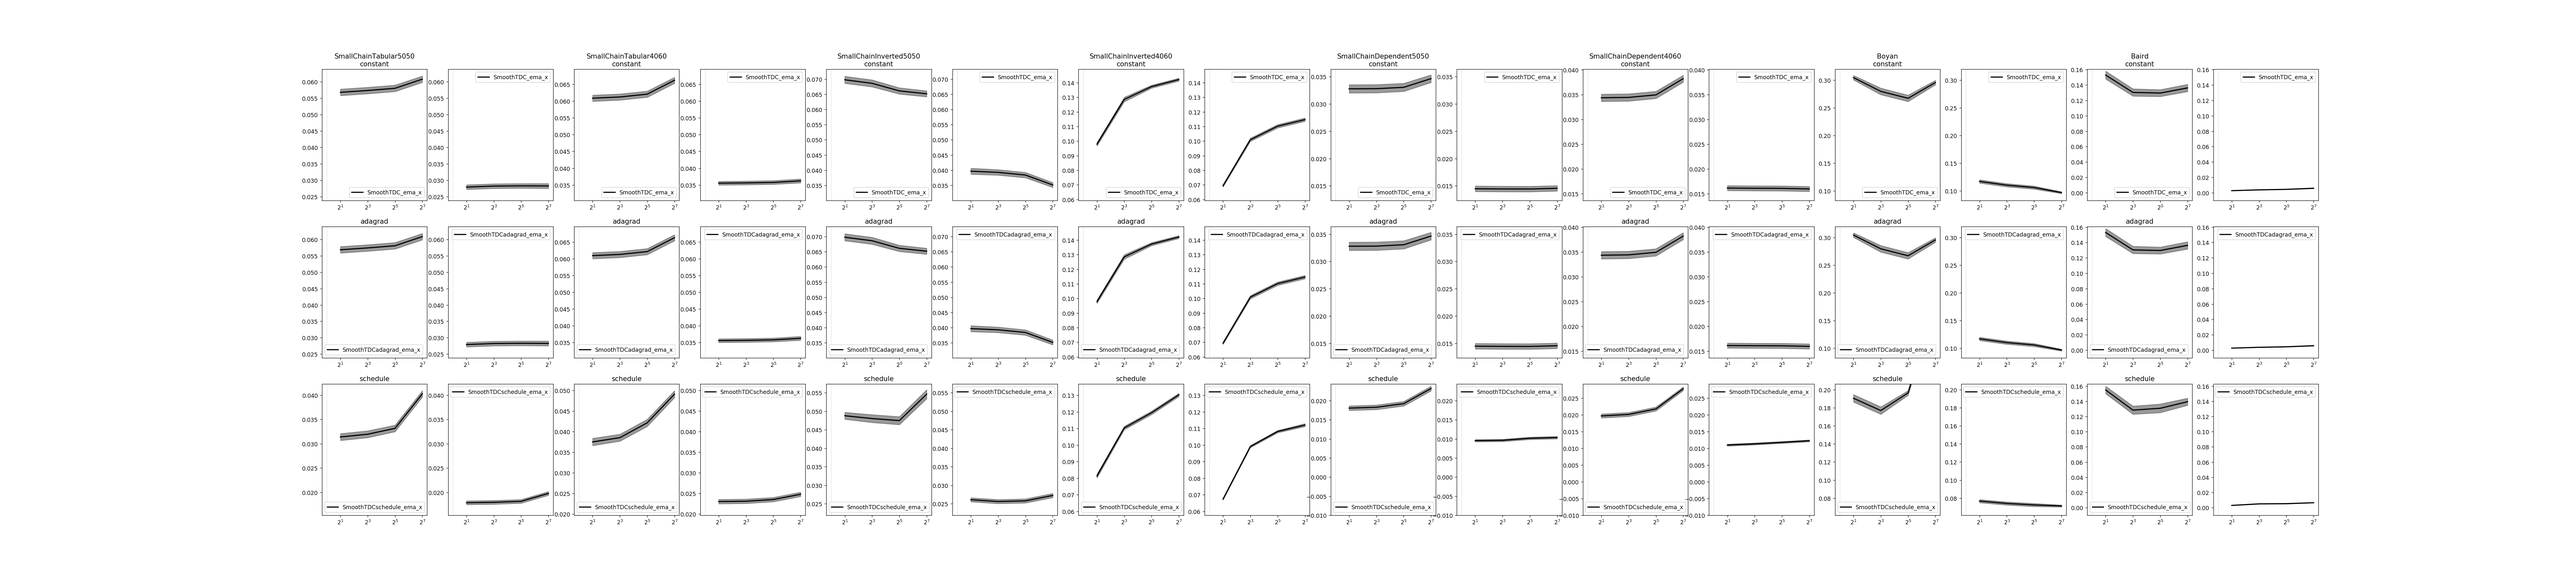
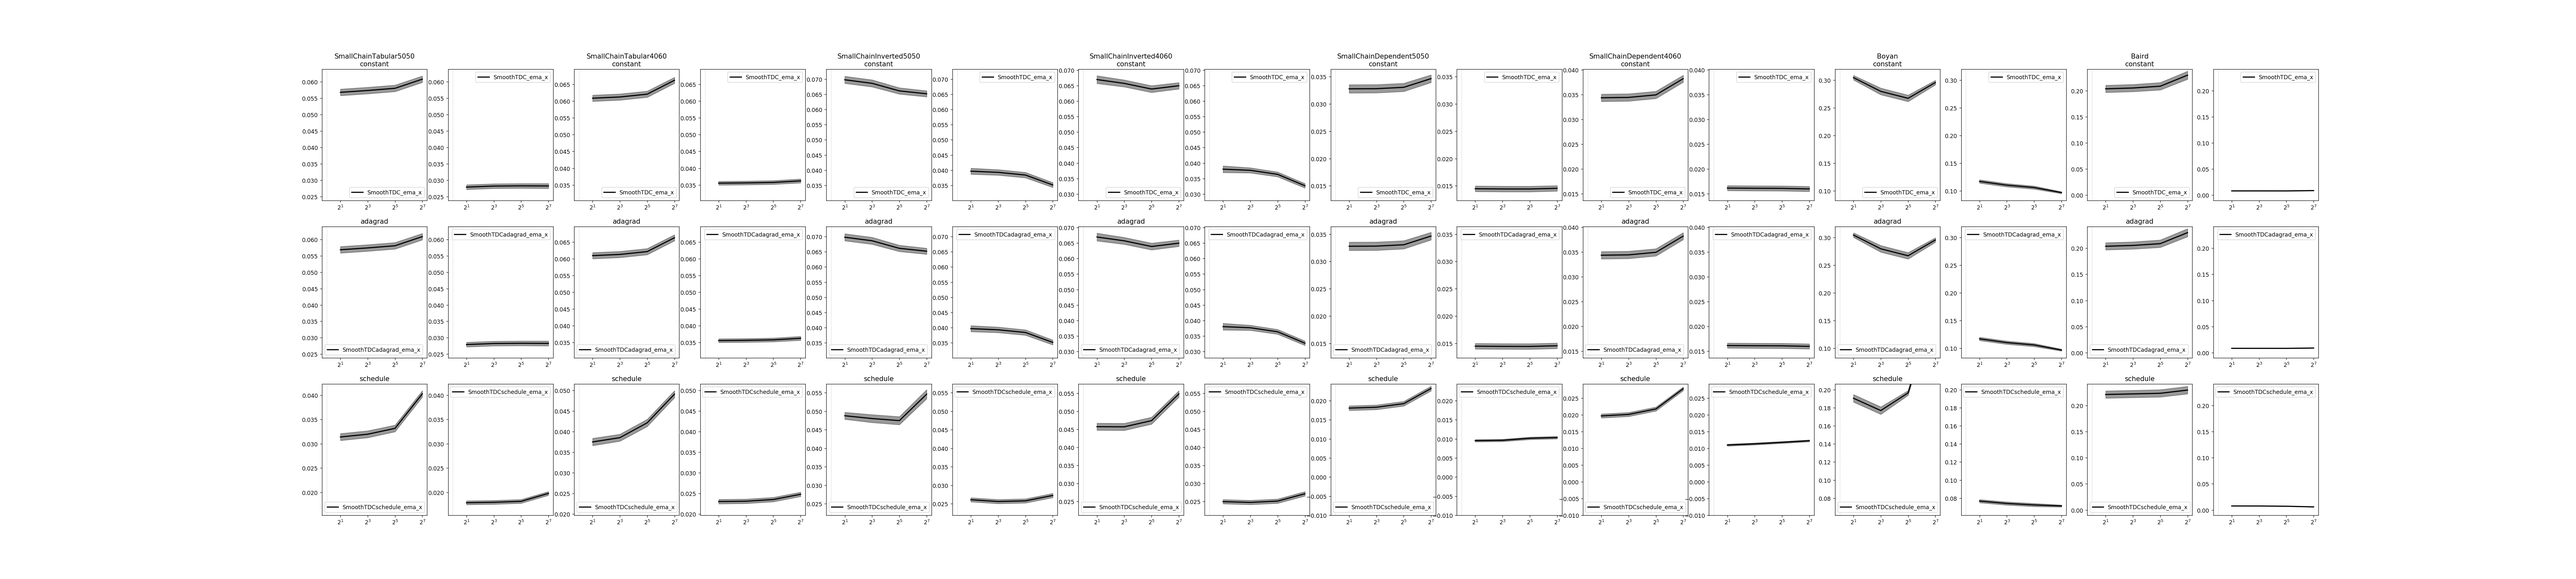
update some results

diff --git a/experiments/stepsizes/sbs_compare-algs.py b/experiments/stepsizes/sbs_compare-algs.py
@@ -7,13 +7,13 @@ sys.path.append(os.getcwd())
 from itertools import tee
 from src.analysis.learning_curve import plot, save, plotBest
 from src.analysis.results import loadResults, whereParameterGreaterEq, getBest, find
-from src.analysis.colormap import stepsize_colors as colors
+from src.analysis.colormap import colors
 from src.utils.model import loadExperiment
 
 from src.utils.arrays import first
 from src.utils.path import fileName, up
 
-error = 'rmspbe'
+error = 'rmsve'
 
 # name = 'policy'
 # problems = ['SmallChainTabular5050', 'SmallChainTabular4060', 'Baird']
@@ -25,6 +25,7 @@ name = 'all'
 problems = ['SmallChainTabular5050LeftZero', 'SmallChainInverted5050LeftZero', 'SmallChainDependent5050LeftZero', 'SmallChainTabular5050', 'SmallChainTabular4060', 'SmallChainInverted5050', 'SmallChainInverted4060', 'SmallChainDependent5050', 'SmallChainDependent4060', 'SmallChainRandomCluster1090', 'SmallChainRandomCluster4060', 'SmallChainRandomCluster5050', 'SmallChainOuterRandomCluster1090', 'Boyan', 'Baird']
 
 algorithms = ['gtd2', 'tdc', 'td']
+stepsizes = ['constant', 'adagrad', 'amsgrad', 'schedule']
 
 if error == 'rmsve':
     errorfile = 'errors_summary.npy'
@@ -40,22 +41,22 @@ def generatePlotTTA(ax, exp_paths, bounds):
         color = colors[exp.agent]
         label = exp.agent
 
-        if error == 'rmsve':
-            rmspbe = loadResults(exp, 'rmspbe_summary.npy')
-            rmspbe_unconst, rmspbe_const = tee(rmspbe)
+        # if error == 'rmsve':
+        #     rmspbe = loadResults(exp, 'rmspbe_summary.npy')
+        #     rmspbe_unconst, rmspbe_const = tee(rmspbe)
 
-            rmspbe_const = whereParameterGreaterEq(rmspbe_const, 'ratio', 1)
+        #     rmspbe_const = whereParameterGreaterEq(rmspbe_const, 'ratio', 1)
 
-            best_rmspbe_unconst = getBest(rmspbe_unconst)
-            best_rmspbe_const = getBest(rmspbe_const)
+        #     best_rmspbe_unconst = getBest(rmspbe_unconst)
+        #     best_rmspbe_const = getBest(rmspbe_const)
 
-            best_unconst = find(unconst, best_rmspbe_unconst)
-            best_const = find(const, best_rmspbe_const)
+        #     best_unconst = find(unconst, best_rmspbe_unconst)
+        #     best_const = find(const, best_rmspbe_const)
 
-        elif error == 'rmspbe':
-            const = whereParameterGreaterEq(const, 'ratio', 1)
-            best_unconst = getBest(unconst)
-            best_const = getBest(const)
+        # elif error == 'rmspbe':
+        const = whereParameterGreaterEq(const, 'ratio', 1)
+        best_unconst = getBest(unconst)
+        best_const = getBest(const)
 
 
         b = plotBest(best_unconst, ax, label=label + '_unc', color=color, dashed=True)
@@ -72,32 +73,29 @@ def generatePlotSSA(ax, exp_paths, bounds):
         color = colors[exp.agent]
         label = exp.agent
 
-        if error == 'rmsve':
-            rmspbe = loadResults(exp, 'rmspbe_summary.npy')
-            best_rmspbe = getBest(rmspbe)
+        # if error == 'rmsve':
+        #     rmspbe = loadResults(exp, 'rmspbe_summary.npy')
+        #     best_rmspbe = getBest(rmspbe)
 
-            best = find(results, best_rmspbe)
+        #     best = find(results, best_rmspbe)
 
-        elif error == 'rmspbe':
-            best = getBest(results)
+        # elif error == 'rmspbe':
+        #     best = getBest(results)
+
+        best = getBest(results)
 
         b = plotBest(best, ax, label=label, color=color, dashed=False)
         bounds.append(b)
 
 
 if __name__ == "__main__":
-    f, axes = plt.subplots(len(algorithms), len(problems))
+    f, axes = plt.subplots(len(stepsizes), len(problems))
 
-    for i, alg in enumerate(algorithms):
+    for i, ss in enumerate(stepsizes):
         for j, problem in enumerate(problems):
             bounds = []
 
-            exp_paths = glob.glob(f'experiments/stepsizes/{problem}/{alg}/*.json')
-            if len(exp_paths) == 0:
-                continue
-            exp = loadExperiment(exp_paths[0])
-
-            path = up(up(first(exp_paths))) + '/lstd.json'
+            path = f'experiments/stepsizes/{problem}/lstd.json'
             lstd_exp = loadExperiment(path)
             LSTD_res = loadResults(lstd_exp, errorfile)
 
@@ -106,23 +104,34 @@ if __name__ == "__main__":
             b = plotBest(LSTD_best, axes[i, j], color=colors['LSTD'], label='LSTD', alphaMain=0.5)
             bounds.append(b)
 
-            if '_h' in alg or alg == 'td':
-                generatePlotSSA(axes[i, j], exp_paths, bounds)
-            else:
-                generatePlotTTA(axes[i, j], exp_paths, bounds)
+            for alg in algorithms:
+                print(problem, alg, ss)
+                if ss == 'constant':
+                    exp_paths = glob.glob(f'experiments/stepsizes/{problem}/{alg}/{alg}.json')
+                else:
+                    exp_paths = glob.glob(f'experiments/stepsizes/{problem}/{alg}/{alg}{ss}.json')
 
-            lower = min(map(lambda x: x[0], bounds)) * 0.9
-            upper = max(map(lambda x: x[1], bounds)) * 1.05
+                if len(exp_paths) == 0:
+                    continue
+                exp = loadExperiment(exp_paths[0])
 
-            if lower < 0.01:
-                lower = -0.01
+                if '_h' in alg or alg == 'td':
+                    generatePlotSSA(axes[i, j], exp_paths, bounds)
+                else:
+                    generatePlotTTA(axes[i, j], exp_paths, bounds)
 
-            if i == 0:
-                axes[i, j].set_title(f'{problem}\n{alg}')
-            else:
-                axes[i, j].set_title(f'{alg}')
+                lower = min(map(lambda x: x[0], bounds)) * 0.9
+                upper = max(map(lambda x: x[1], bounds)) * 1.05
 
-            axes[i, j].set_ylim([lower, upper])
+                if lower < 0.01:
+                    lower = -0.01
+
+                if i == 0:
+                    axes[i, j].set_title(f'{problem}\n{ss}')
+                else:
+                    axes[i, j].set_title(f'{ss}')
+
+                axes[i, j].set_ylim([lower, upper])
 
 
     # plt.show()
@@ -132,6 +141,6 @@ if __name__ == "__main__":
     os.makedirs(save_path, exist_ok=True)
 
     width = len(problems) * 8
-    height = len(algorithms) * (24/5)
+    height = len(stepsizes) * (24/5)
     f.set_size_inches((width, height), forward=False)
-    plt.savefig(f'{save_path}/{name}_{error}.png', dpi=100)
+    plt.savefig(f'{save_path}/{name}_compare-algs_{error}.png', dpi=100)

diff --git a/experiments/stepsizes/sbs_compare-stepsizes-algs.py b/experiments/stepsizes/sbs_compare-stepsizes-algs.py
@@ -1,0 +1,104 @@
+import os
+import sys
+import glob
+import matplotlib.pyplot as plt
+sys.path.append(os.getcwd())
+
+from itertools import tee
+from src.analysis.learning_curve import plot, save, plotBest
+from src.analysis.results import loadResults, whereParameterGreaterEq, getBest, find
+from src.analysis.colormap import stepsize_colors as colors
+from src.utils.model import loadExperiment
+
+from src.utils.arrays import first
+from src.utils.path import fileName, up
+
+error = 'rmsve'
+
+# name = 'policy'
+# problems = ['SmallChainTabular5050', 'SmallChainTabular4060', 'Baird']
+
+# name = 'features'
+# problems = ['SmallChainTabular5050', 'SmallChainInverted5050', 'SmallChainDependent5050' 'Boyan']
+
+name = 'all'
+problems = ['SmallChainTabular5050LeftZero', 'SmallChainInverted5050LeftZero', 'SmallChainDependent5050LeftZero', 'SmallChainTabular5050', 'SmallChainTabular4060', 'SmallChainInverted5050', 'SmallChainInverted4060', 'SmallChainDependent5050', 'SmallChainDependent4060', 'SmallChainRandomCluster1090', 'SmallChainRandomCluster4060', 'SmallChainRandomCluster5050', 'SmallChainOuterRandomCluster1090', 'Boyan', 'Baird']
+
+algorithms = ['gtd2', 'tdc']
+stepsizes = ['constant', 'adagrad', 'amsgrad', 'schedule']
+
+if error == 'rmsve':
+    errorfile = 'errors_summary.npy'
+elif error == 'rmspbe':
+    errorfile = 'rmspbe_summary.npy'
+
+def generatePlotTTA(ax, exp_paths, bestBy, bounds):
+    for exp_path in exp_paths:
+        exp = loadExperiment(exp_path)
+        results = loadResults(exp, errorfile)
+
+        color = colors[exp.agent]
+        label = exp.agent
+
+        dashed = False
+        if 'TDC' in label:
+            dashed = True
+
+        results = whereParameterGreaterEq(results, 'ratio', 1)
+
+        b = plot(results, ax, label=label, color=color, dashed=dashed, bestBy=bestBy)
+        bounds.append(b)
+
+if __name__ == "__main__":
+    f, axes = plt.subplots(2, len(problems))
+
+    for j, problem in enumerate(problems):
+        bounds = []
+        path = f'experiments/stepsizes/{problem}/lstd.json'
+        lstd_exp = loadExperiment(path)
+        LSTD_res = loadResults(lstd_exp, errorfile)
+
+        LSTD_best = getBest(LSTD_res)
+
+        b = plotBest(LSTD_best, axes[0, j], color=colors['LSTD'], label='LSTD', alphaMain=0.5)
+        b = plotBest(LSTD_best, axes[1, j], color=colors['LSTD'], label='LSTD', alphaMain=0.5)
+        bounds.append(b)
+
+        for ss in stepsizes:
+            for alg in algorithms:
+                print(problem, alg, ss)
+                if ss == 'constant':
+                    exp_paths = glob.glob(f'experiments/stepsizes/{problem}/{alg}/{alg}.json')
+                else:
+                    exp_paths = glob.glob(f'experiments/stepsizes/{problem}/{alg}/{alg}{ss}.json')
+
+                if len(exp_paths) == 0:
+                    continue
+                exp = loadExperiment(exp_paths[0])
+
+                generatePlotTTA(axes[0, j], exp_paths, 'auc', bounds)
+                generatePlotTTA(axes[1, j], exp_paths, 'end', bounds)
+
+                lower = min(map(lambda x: x[0], bounds)) * 0.9
+                upper = max(map(lambda x: x[1], bounds)) * 1.05
+
+                if lower < 0.01:
+                    lower = -0.01
+
+                axes[0, j].set_title(f'{problem}\nauc')
+                axes[1, j].set_title(f'end')
+
+                axes[0, j].set_ylim([lower, upper])
+                axes[1, j].set_ylim([lower, upper])
+
+
+    # plt.show()
+    # exit()
+
+    save_path = 'experiments/stepsizes/plots'
+    os.makedirs(save_path, exist_ok=True)
+
+    width = len(problems) * 8
+    height = 2 * (24/5)
+    f.set_size_inches((width, height), forward=False)
+    plt.savefig(f'{save_path}/{name}_compare-stepsizes-algs_{error}.png', dpi=100)

diff --git a/experiments/stepsizes/sbs_eta_stepsize.py b/experiments/stepsizes/sbs_eta_stepsize.py
@@ -14,7 +14,7 @@ from src.utils.model import loadExperiment
 from src.utils.arrays import first
 from src.utils.path import fileName, up
 
-error = 'rmspbe'
+error = 'rmsve'
 
 # name = 'test'
 # problems = ['SmallChainTabular5050', 'Boyan']
